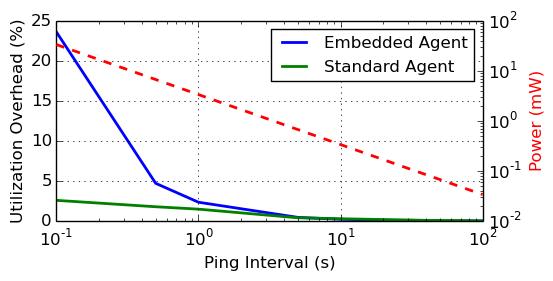
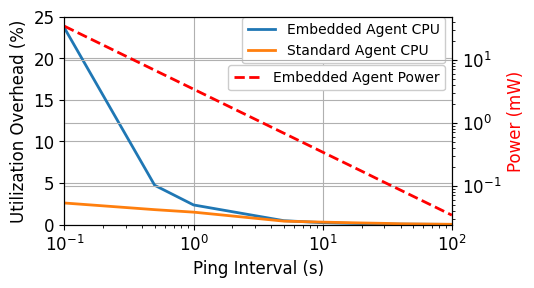
update plot

diff --git a/media/plots/agentutilization.py b/media/plots/agentutilization.py
@@ -8,7 +8,7 @@ y1 = [23.65/1, 23.65/5, 23.65/10, 23.65/50, 23.65/100, 23.65/200, 23.65/300, 23.
 y2 = [2.6, 1.8, 1.5, 0.42, 0.3, 0.2, 0.15, 0.1, 0.04]
 x = [0.1, 0.5, 1, 5, 10, 20, 30, 40, 100]
 
-fig=plt.figure()
+fig=plt.figure(figsize=(5,2.7))
 ax = fig.add_subplot(1,1,1)
 ax.set_xscale('log')
 # ax.legend(loc='upper right', prop={'size': 12})
@@ -18,19 +18,26 @@ ax.set_xscale('log')
 # ax.set_title('scatter plot')
 
 # plt.plot(x,y,'o',color='b')
-plt.plot(x,y1,linewidth=2.0,label='Embedded Agent')
-plt.plot(x,y2,linewidth=2.0,label='Standard Agent')
-plt.legend(prop={'size': 12})
-plt.grid()
-plt.xlabel('Ping Interval (s)')
-plt.ylabel('Utilization Overhead (%)')
+plt.plot(x,y1,linewidth=2.0,label='Embedded Agent CPU',zorder=2.5)
+plt.plot(x,y2,linewidth=2.0,label='Standard Agent CPU',zorder=2.5)
+plt.grid(zorder=2.5)
+plt.legend(prop={'size': 10},bbox_to_anchor=(1, 1.03),facecolor='white',framealpha=1)
+plt.xlabel('Ping Interval (s)',fontsize=12)
+plt.ylabel('Utilization Overhead (%)',fontsize=12)
+plt.xlim((0.1,100))
+plt.ylim((0,25))
+plt.yticks(fontsize=12)
+plt.xticks(fontsize=12)
 
 
 ax2 = ax.twinx()
-ax2.plot(x, [34, 6.8, 3.4, 0.68, 0.34, 0.17, 0.113, 0.085, 0.034], '--', linewidth=2.0, label='Power', color='r')
+ax2.plot(x, [34, 6.8, 3.4, 0.68, 0.34, 0.17, 0.113, 0.085, 0.034], '--', linewidth=2.0, label='Embedded Agent Power', color='r', zorder=2.5)
 # ax2.set_ylim([0,50])
 ax2.set_yscale('log')
-plt.ylabel('Power (mW)', color='r')
+plt.ylabel('Power (mW)', color='r', fontsize=12)
+plt.grid(zorder=2.5)
+plt.legend(prop={'size': 10},loc='upper right',bbox_to_anchor=(1, 0.8),facecolor='white',framealpha=1)
+plt.yticks(fontsize=12)
 # ax2.show()
 
 # plt.show()
